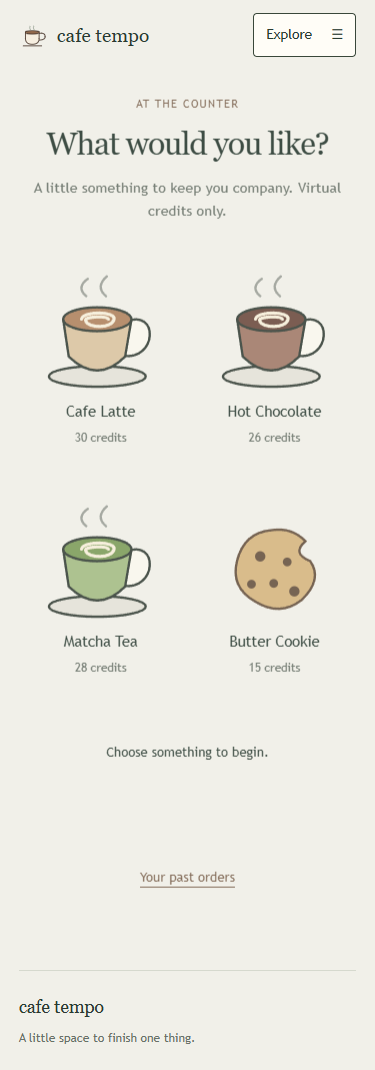
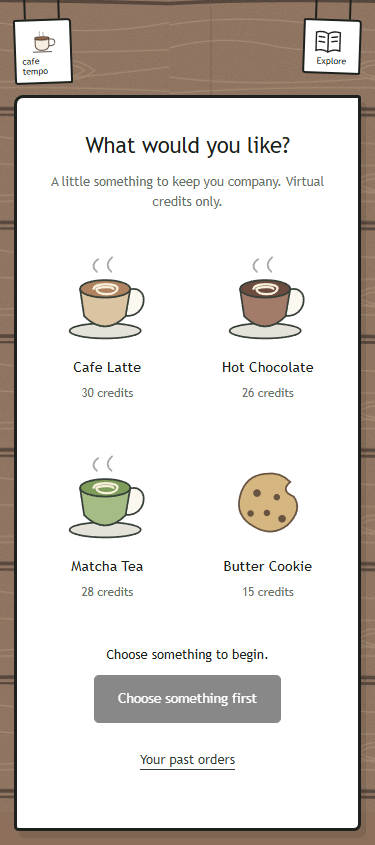
test: verify immersive scenes and refresh design evidence
- Check scene switching without creating an extra focus session
- Capture setup, active focus and cafe corner presentations
- Check all 17 routes at mobile and desktop widths
- Document the full-screen layout and replaceable asset direction

diff --git a/tests/draft.spec.ts b/tests/draft.spec.ts
@@ -74,6 +74,10 @@ test('real frontend → API → Atlas flow', async ({ page }) => {
   await expect(page.getByText('Edited task from the working UI.')).toBeVisible();
 
   await page.getByRole('link', { name: 'Focus →', exact: true }).click();
+  await expect(page.locator('.study-paper')).toBeVisible();
+  await page.emulateMedia({ reducedMotion: 'reduce' });
+  await page.screenshot({ path: `${screenshotDir}/focus-setup-desktop.png`, fullPage: true });
+  await page.emulateMedia({ reducedMotion: 'no-preference' });
   await page.getByRole('button', { name: 'Next →' }).click();
   await page.getByLabel('Cafe area').selectOption({ label: 'Garden Patio' });
   await page.getByRole('button', { name: 'Next →' }).click();
@@ -82,6 +86,14 @@ test('real frontend → API → Atlas flow', async ({ page }) => {
   await page.getByRole('button', { name: 'Start focusing →' }).click();
   await expect(page.getByRole('button', { name: 'Finish session' })).toBeVisible();
   focusPath = new URL(page.url()).pathname;
+  await page.screenshot({ path: `${screenshotDir}/focus-active-desktop.png`, fullPage: true });
+  await page.getByRole('button', { name: 'Show cafe corner scene' }).click();
+  await expect(page.locator('.space-badge')).toHaveText('garden patio');
+  await expect(page.getByRole('button', { name: 'Finish session' })).toBeVisible();
+  const running = await (await page.request.get('http://localhost:5000/api/focus-sessions?user=' + userId)).json();
+  expect(running.filter((session: { status: string }) => session.status === 'active')).toHaveLength(1);
+  await page.getByRole('button', { name: 'Show focus scene' }).click();
+  await expect(page.locator('.space-badge')).toHaveText('focus');
   await page.reload();
   await expect(page.getByRole('button', { name: 'Finish session' })).toBeVisible();
   await page.getByRole('button', { name: 'Finish session' }).click();

diff --git a/docs/REDESIGN.md b/docs/REDESIGN.md
@@ -1,5 +1,15 @@
 # A quieter cafe draft
 
+## Full-screen reference direction
+
+The setup and counter now use a large centered white sheet on an original SVG cafe tabletop. Small hanging signs replace the conventional header. The lobby fills the viewport, and the focus screen uses a large countdown, a cup, a curved white table and side arrows.
+
+The arrows switch between the quiet focus presentation and the session's cafe corner. They do not change the saved area, create another session, pause time or reset the countdown. Scene selection is temporary presentation state.
+
+Shared record and form styling remains in styles.css. The immersive presentation is in experience.css. Native dialog navigation still provides access to every project page.
+
+Photographic drink cutouts and real ambient footage are still optional replacements. The layout is closer to the reference, while the current illustrations remain original placeholders.
+
 ## What changed
 
 - The header shows the wordmark and one Explore button. Secondary pages live in an accessible dialog with keyboard dismissal.
